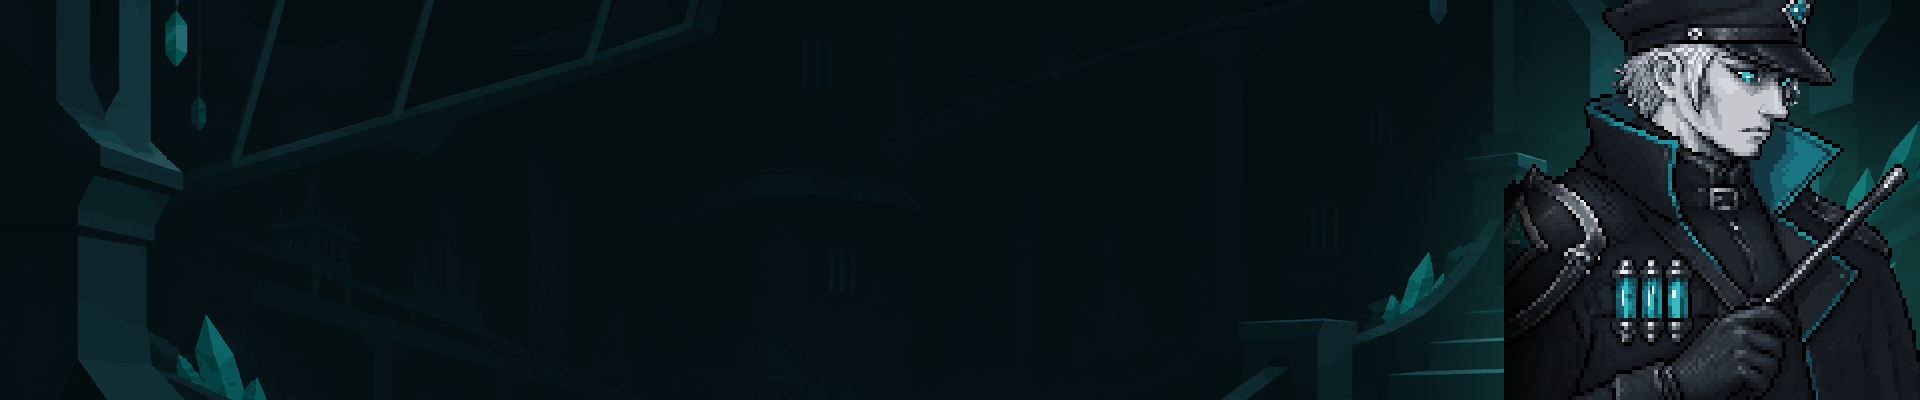
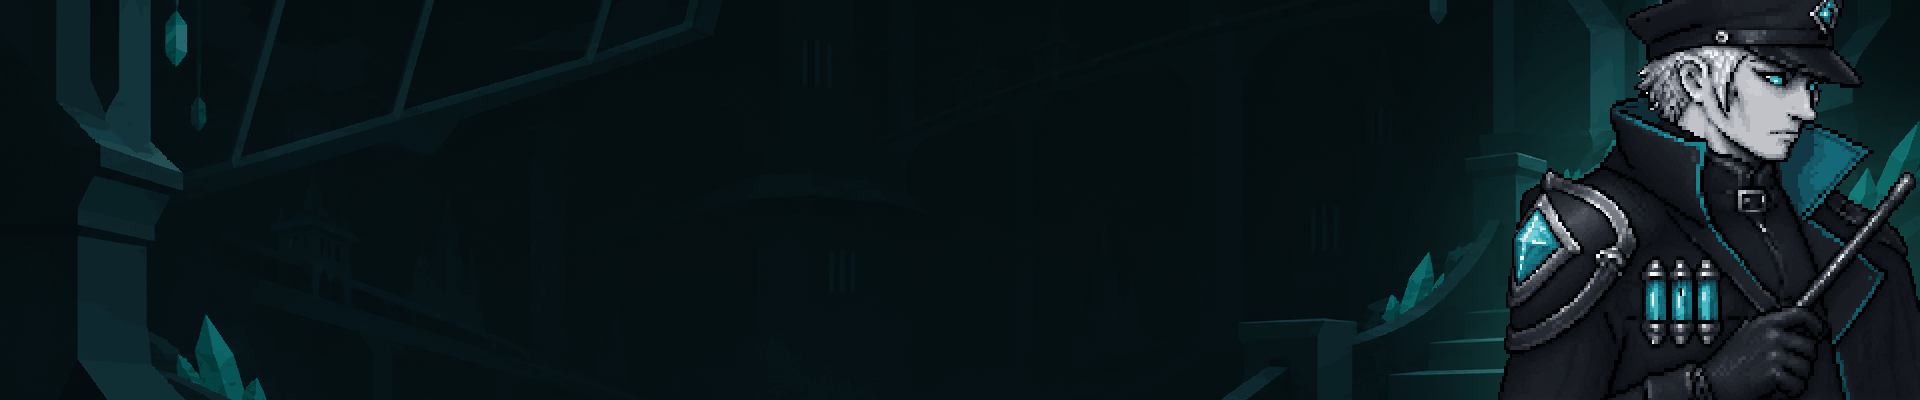
보스 카드 인물의 왼쪽이 잘리지 않게
크래셔·아크·문지기의 카드 인물을 '왼쪽 윤곽이 온전하고 아래·오른쪽
끝에서만 잘리는' 구도로 다시 뽑았다(PixelLab 54회, 2차 클로즈업을 기준 그림으로).
crasher_r1·ark_r3·gatekeeper_r1, 카드 높이 96.5·100·95%. 카드 안의 곧은
세로선이 없어져 왼쪽 어둡게 스미기는 끈다. 심장 카드는 그대로.

Changed region(s): [[0.7812, 0.0, 1.0, 1.0]]

diff --git a/tools/apply_pixellab_boss_cards.py b/tools/apply_pixellab_boss_cards.py
@@ -24,9 +24,9 @@ DARK = 0.5                  # 배경 밝기
 
 # 보스 -> (고른 시안, 구역 배경, 인물 뒤 빛 색). 고른 이유는 boss_cards_v6/GENERATION_LOG.md
 CARDS = {
-    'crasher': ('crasher_c1', 'zone_foundry', (255, 120, 50)),
-    'ark': ('ark_c4', 'zone_haze', (60, 220, 200)),
-    'gatekeeper': ('gatekeeper_c1', 'zone_cell', (120, 170, 230)),
+    'crasher': ('crasher_r1', 'zone_foundry', (255, 120, 50)),
+    'ark': ('ark_r3', 'zone_haze', (60, 220, 200)),
+    'gatekeeper': ('gatekeeper_r1', 'zone_cell', (120, 170, 230)),
     'heart': (None, 'zone_haze', (60, 230, 210)),
 }
 
@@ -44,7 +44,7 @@ def background(zone, glow, center_x):
 
 
 HEART_RIGHT = 140           # 헤이즈 심장 카드는 1차 배치 그대로 (2차 검토: 심장은 바꾸지 않는다)
-FADE_W = 80                 # 인물 왼쪽 끝(캔버스에서 잘린 세로 선)을 이만큼 어둡게 스며들게 한다(px, 2px 열 단위)
+FADE_W = 0                  # 인물 왼쪽 끝을 이만큼 어둡게 스며들게 한다(px, 2px 열 단위). 3차: 왼쪽 윤곽이 온전한 시안이라 쓰지 않는다
 
 
 def portrait(name):

diff --git a/docs/DECISIONS.md b/docs/DECISIONS.md
@@ -721,6 +721,7 @@
 - 2026-11-26 **등불 깜빡임과 보스 막타 줌 (O6)**: 등 장식 빛은 `room.lamp_level(lamp_seed(방 이름, 칸), 방 시간)`(0.3~1: 박자가 다른 사인 둘의 느린 흔들림 + 등마다 5~9초에 한 번 0.14초 꺼질 듯, 번쩍임 줄이기면 1)을 곱한다. 등 아래 빛 원뿔(O3)도 같은 값으로 흔든다. 보스 막타 줌은 `postfx.zoom`: 볼록 렌즈와 따로, 세계 층 전체를 보스 화면 자리 쪽으로 고르게 당긴다(`BOSS_KILL_ZOOM` 0.25초에 6% -> 0.35초에 복귀, 실제 시간). UI 층은 그대로. 보스 넷이 쓰러지는 자리(죽음 대사)에서 `postfx.boss_kill`이 보스마다 한 번 부르고 일반 적은 부르지 않는다. 번쩍임 줄이기와 상관없이 `BOSS_KILL_ZOOM_ON`으로 끈다. 임팩트 프레임(2프레임)과 겹쳐도 어색하지 않아 미루지 않았다.
 - 2026-11-26 **이펙트 색 점검 (O7)**: 적의 낙하 예고는 노랑 하나(`config.FALL_WARN_COLOR` (250,220,90)): 천장 고철 더미와 크래셔 고철 기둥이 같은 값을 쓴다(기둥이 주황이었다). 나머지는 표와 맞았고, 취향으로 남긴 다섯 가지(각성 하늘색, 처형 예고 금 마름모, 용광로 배기구 청록 예고, 적 탄환 청록, 기둥 예고의 사각형 띠)는 `docs/project/color_check.md`에 목록으로만 둔다.
 - 2026-11-26 **보스 카드 인물은 가슴 위 클로즈업 (2차 검토)**: 카드 인물이 카드 높이의 85~100%가 되게 1차 선택 시안을 기준 그림으로 넣어 다시 뽑았다(crasher_c1·ark_c4·gatekeeper_c1, 모두 100%). 캔버스 좌우까지 차는 그림이라 오른쪽 끝을 카드 끝에 붙이고, 왼쪽 80px을 2px 열마다 같은 배율로 어둡게 해 잘린 선을 숨긴다(도트 격자 유지). 크래셔 고철 기둥 낙하 예고는 `effects.draw_warn`(다른 바닥 예고와 같은 띠 + 빛).
+- 2026-11-26 **보스 카드 인물은 왼쪽 윤곽이 온전한 구도 (3차 검토)**: 캔버스 왼쪽에서 잘린 클로즈업은 카드 안에 곧은 세로선을 만든다. 인물을 오른쪽에 두고 왼쪽 윤곽이 빈 공간과 함께 다 들어온 시안(crasher_r1·ark_r3·gatekeeper_r1)을 쓰고, 인물은 카드의 아래·오른쪽 끝(아크는 모자 꼭대기가 위 끝)에만 붙어 잘린다. 왼쪽 어둡게 스미기(`FADE_W`)는 0.
 - 2026-11-26 **세션을 둘로 나눈다 (사용자 결정, 주간 한도 절약)**: 기획·판단·검토는 Fable 세션("FABLE 기획 진두지휘"), 구현·테스트·촬영·커밋은 Opus 세션("OPUS GAME 작업"). 기획 세션이 쓴 지시문은 `docs/opus/TASKS.md`. 두 세션은 같은 폴더·같은 main을 쓰므로 같은 파일을 동시에 고치지 않는다.
 - 2026-11-26 **참고 자료 검토 결과 (사용자가 "세 묶음 모두")**: 넣는다 = ① 실루엣 컷인(단색 바탕 + 검은 실루엣 0.7초: 보스 페이즈 전환, 그리고 새 증강 '궁극기 각성'을 가진 궁극기) ② 보스 등장 보강(음악 정적, 체력바 차오름, 크래셔만 착지 등장) ③ 빛줄기(등 아래 빛 원뿔과 기운 빛줄기. 환경광·배경 분리·림라이트·블룸은 이미 있다). 미룬다 = 물 반사(방에 물이 없어 자리부터 만들어야 한다, 발표 뒤). 넣지 않는다 = Claude Code Game Studios·sprite-gen·Game-Dev Agentic Skills(절차가 무겁고 한도를 많이 쓴다 / PixelLab 결정과 겹친다 / 고도·베비용). 11/24에 뺀 궁극기의 화면 정지·이름 띠는 되살리지 않는다: 컷인은 0.8초 안, 증강이 있을 때만.
 - 2026-11-26 **건너뛴 것 가운데 넷을 더 한다 (사용자: "건너뛴 것 더 하자", 고른 것은 기획 세션)**: 보스 이름 카드를 지금 보스 그림에 맞추기(크래셔 카드가 예전 디자인의 다른 인물이고 문지기는 카드가 없다), 강화 교체기(v8 3절), 등불 깜빡임·보스 막타 줌(v7 3절), 이펙트 색 점검(v8 4-5). 하지 않는다: 움직이는 발판·금 간 벽 블록(타일 충돌), 물 반사(발표 뒤), 난이도 서약, v7 합성 2종, 일시정지 전체 지도. 지시문은 `docs/opus/TASKS.md` 2차.

diff --git a/docs/PROGRESS.md b/docs/PROGRESS.md
@@ -412,4 +412,5 @@
 2026-11-26 [Claude Code] O6 등불 깜빡임 + 보스 막타 줌(docs/opus/TASKS.md, plan_v7 3절): room.lamp_level(등마다 다른 박자의 느린 흔들림 + 5~9초마다 0.14초 꺼질 듯, 0.3~1, 번쩍임 줄이기면 1)로 등 빛과 등 아래 빛 원뿔(O3)을 같이 흔듦. postfx에 화면 전체를 고르게 당기는 줌(0.25초 6% -> 0.35초 복귀, 실제 시간, UI 그대로, config.BOSS_KILL_ZOOM_ON)을 더하고 보스 넷의 쓰러짐(죽음 대사 자리)에서 한 번 부름. 테스트 7개를 먼저 쓰고 구현, 연습장에서 크래셔 막타 줌(임팩트 프레임 -> 당김 -> 복귀)과 같은 방 등불 밝음·어두움을 실제 창에서 확인 / src/(room, light_shafts, postfx, boss, ark, gatekeeper, heart, config).py, tests/test_lamps_zoom.py, docs/(PROGRESS, DECISIONS).md
 2026-11-26 [Claude Code] O7 이펙트 색 점검(docs/opus/TASKS.md, plan_v8 4-5): 색 언어 표와 src/의 실행 중 색을 대조, 어긋난 것 하나(크래셔 고철 기둥 낙하 예고 주황 -> 노랑 config.FALL_WARN_COLOR, 천장 고철 더미와 같은 값)를 고침, 사람이 판단할 것 다섯(각성 하늘색, 처형 예고 금 마름모, 배기구 청록 예고, 적 탄환 청록, 기둥 예고가 사각형 띠)은 목록만. 표는 docs/project/color_check.md. 테스트 2개, 크래셔 방에서 노란 예고를 실제 창으로 확인 / src/(config, projectile, boss_terrain).py, tests/test_effect_colors.py, docs/project/color_check.md, docs/(PROGRESS, DECISIONS).md
 2026-11-26 [Claude Code] 2차 검토 반영: 보스 카드 인물을 가슴 위 클로즈업으로 다시 뽑아(PixelLab 48회, 1차 선택 시안을 기준 그림으로) 카드 높이 100%로 키움(crasher_c1·ark_c4·gatekeeper_c1, 오른쪽 끝에 붙이고 왼쪽 잘린 선은 2px 열 단위로 어둡게 스며들게), 크래셔 고철 기둥 낙하 예고를 사각형 띠에서 effects.draw_warn으로(색·폭·깜빡임 그대로). 테스트 1개 추가, 등장씬 카드 셋과 기둥 예고를 실제 창에서 확인 / assets/backgrounds/boss_card_(crasher, ark, gatekeeper).png, assets/sprites/pixellab/boss_cards_v6/, tools/apply_pixellab_boss_cards.py, src/boss_terrain.py, tests/test_effect_colors.py, docs/(PROGRESS, DECISIONS, ASSETS).md
+2026-11-26 [Claude Code] 보스 카드 인물의 왼쪽 잘림 고치기(기획 세션 검토): 2차 클로즈업을 기준으로 '왼쪽 윤곽이 온전하고 아래·오른쪽 끝에서만 잘리는' 구도로 다시 뽑아(PixelLab 54회) crasher_r1·ark_r3·gatekeeper_r1 선택(카드 높이 96.5·100·95%), 왼쪽 어둡게 스미기는 끔. 심장 카드 그대로. 인물 부분 원래 크기 그림과 등장씬 카드 셋을 실제 창에서 확인 / assets/backgrounds/boss_card_(crasher, ark, gatekeeper).png, assets/sprites/pixellab/boss_cards_v6/, tools/apply_pixellab_boss_cards.py, docs/(PROGRESS, DECISIONS).md
 2026-11-26 [Claude Code] 계획 문서(퀄리티 계획·v4~v8)를 코드와 대조해 건너뛴 것을 정리하고, 그중 넷(보스 이름 카드 맞추기, 강화 교체기, 등불 깜빡임·보스 막타 줌, 색 점검)을 작업 세션 지시문 2차로 씀. 보스 이름 카드가 예전 디자인인 것을 새로 확인 / docs/opus/TASKS.md, docs/(PROGRESS, DECISIONS).md

diff --git a/assets/sprites/pixellab/boss_cards_v6/GENERATION_LOG.md b/assets/sprites/pixellab/boss_cards_v6/GENERATION_LOG.md
@@ -51,3 +51,21 @@
 
 굽기 변경(`tools/apply_pixellab_boss_cards.py`): 인물이 캔버스 좌우 끝까지 차 있어 오른쪽 끝을 카드 끝에 붙이고(RIGHT 0), 캔버스에서 잘린 왼쪽 세로 선은
 왼쪽 80px을 2px 열마다 같은 배율로 어둡게 해 배경에 스며들게 했다(격자 유지). 1차 선택(crasher_2·ark_1·gatekeeper_1)은 raw_gen에 그대로 둔다.
+
+## 3차: 왼쪽 윤곽이 온전한 구도 (2026-11-26 밤, 기획 세션 검토 "왼쪽에서 수직으로 뚝 잘려 네모난 판처럼 보인다") — 54회 사용
+2차 클로즈업(c1·c4)은 캔버스 왼쪽 끝에서 잘려 카드 안에 곧은 세로선이 생겼다(왼쪽 어둡게 스미기로도 줄여 보면 보였다).
+- style_image = 2차 선택(crasher_c1·ark_c4·gatekeeper_c1, 208x200 그대로, upload), usage "... Only the framing changes."
+- 설명 끝에 구도를 못 박음: "the figure is pushed to the right side of the canvas. His LEFT side is fully visible with its complete outline ... about 20 pixels of empty transparent space ... cut off ONLY by the bottom edge and by the right edge". 아크 3·4안은 224x200(9회), 왼쪽 빈 띠 24px.
+
+| 파일 | bbox | 몸 높이 | 평가 |
+|---|---|---|---|
+| crasher_r1 (seed 7) | (4,5)-(203,198) | 193 | 왼쪽 어깨판 둥근 윤곽 온전, 오른쪽 어깨는 오른쪽 끝에서 잘림 -> **선택** (카드 96.5%) |
+| crasher_r2 (seed 19) | (27,25)-(182,175) | 150 | 작다 |
+| ark_r1 (seed 7) | (0,0)-(208,200) | 200 | 여전히 왼쪽에서 잘림 |
+| ark_r2 (seed 19) | (29,21)-(183,180) | 159 | 작고 아래 흰 줄 |
+| ark_r3 (seed 37, 224x200) | (13,0)-(224,200) | 200 | 어깨판 윤곽 온전, 모자 꼭대기는 위 끝에서 잘림(카드 위 끝에 붙여 가장자리와 겹치게) -> **선택** (카드 100%) |
+| ark_r4 (seed 43, 224x200) | (7,0)-(224,200) | 200 | 비슷하나 왼쪽 여백이 좁다 |
+| gatekeeper_r1 (seed 7) | (13,10)-(204,200) | 190 | 철퇴·팔까지 왼쪽 온전, 방패가 오른쪽 끝, 아래 끝까지 -> **선택** (카드 95%) |
+| gatekeeper_r2 (seed 19) | (5,4)-(206,198) | 194 | 비슷하나 아래 끝에서 2줄 떠 있다 |
+
+굽기: 왼쪽이 잘리지 않으니 왼쪽 어둡게 스미기(FADE_W)는 0으로 끔. 인물은 알파 영역으로 잘라 오른쪽·아래 끝에 붙인다. 심장 카드는 그대로.
